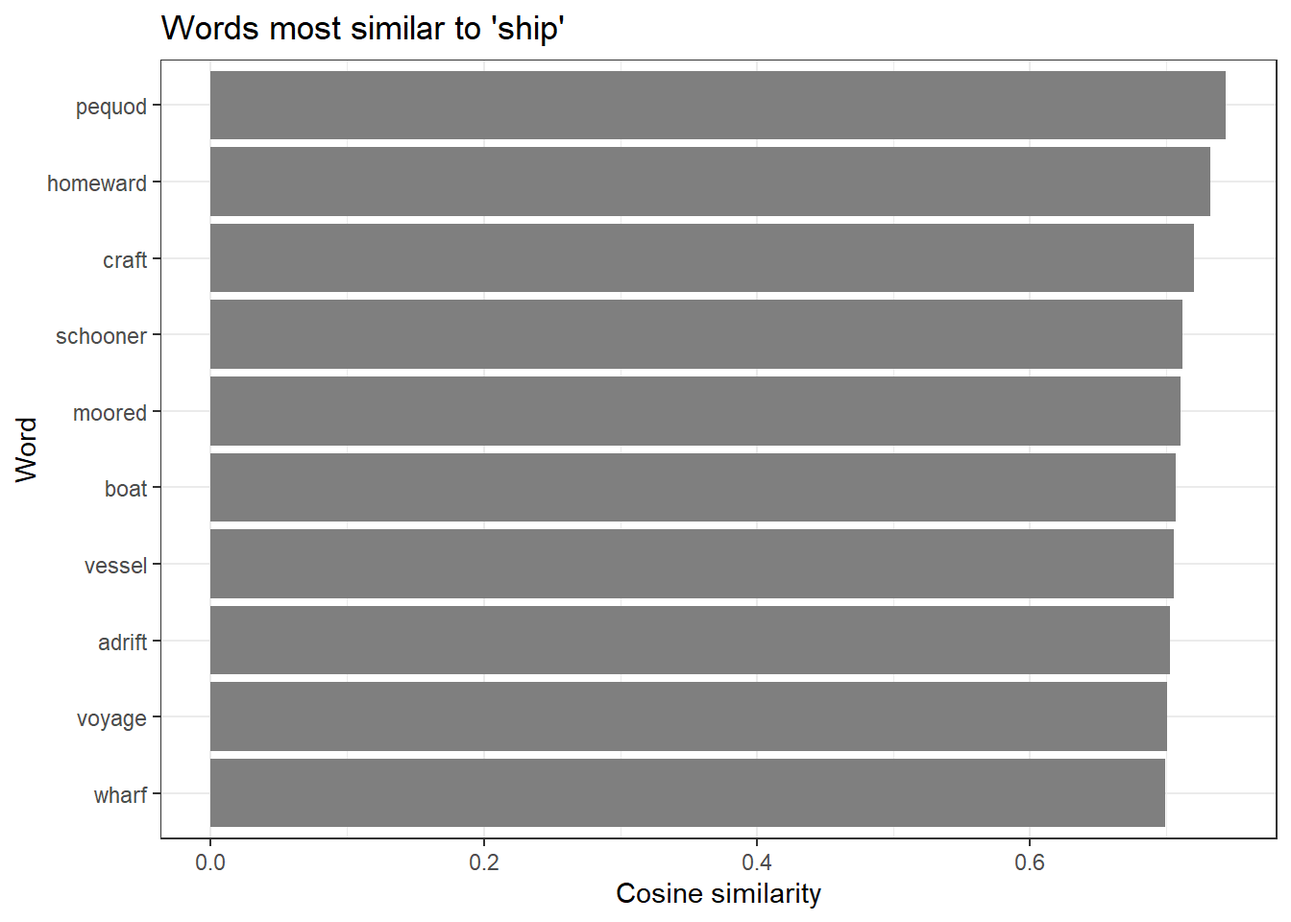
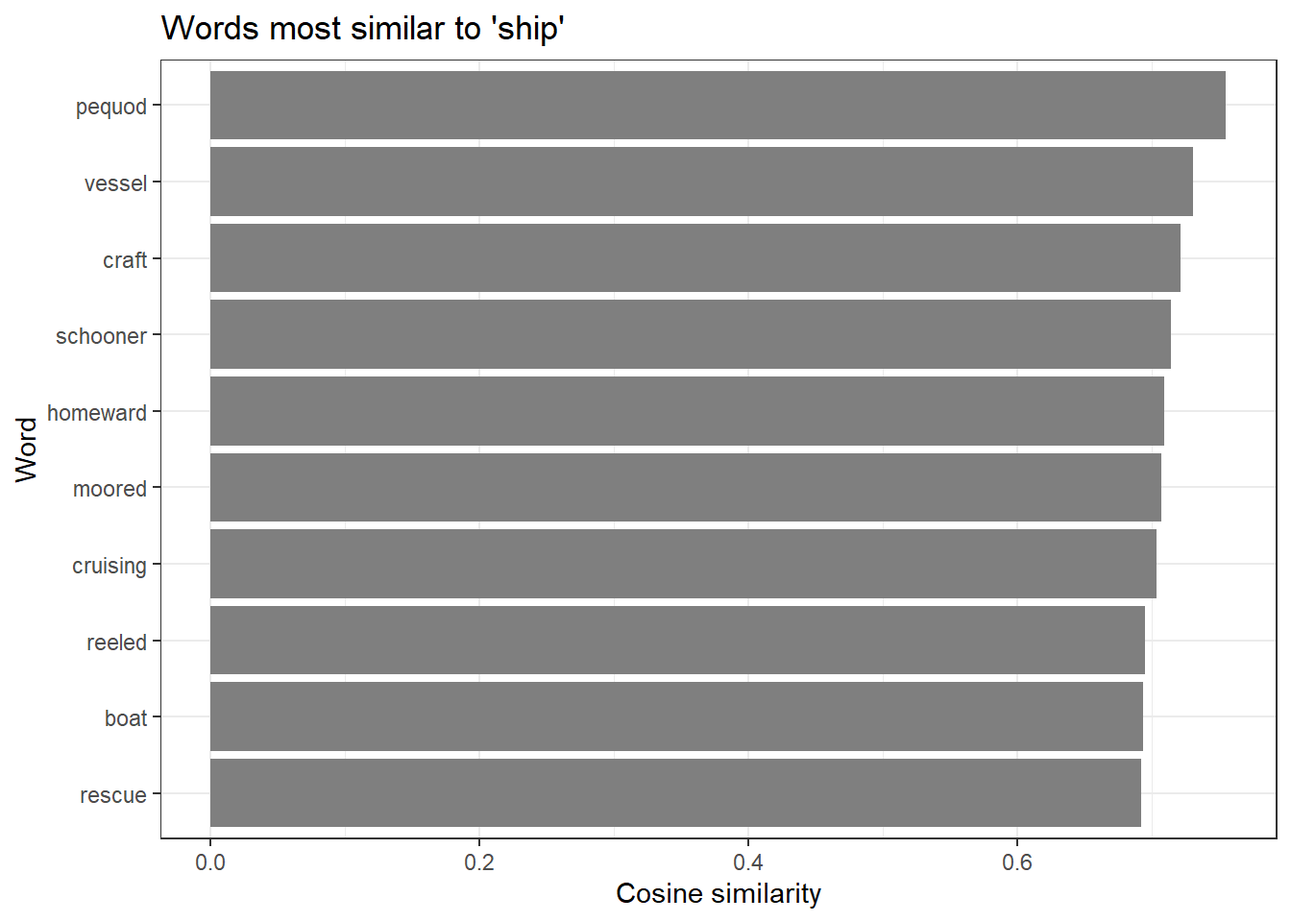
update embeddings

diff --git a/docs/tutorials/embeddings/embeddings.html b/docs/tutorials/embeddings/embeddings.html
@@ -344,17 +344,6 @@ window.Quarto = {
 
 <link rel="stylesheet" href="../../css/styles.css">
 <link rel="canonical" href="https://ladal.edu.au/tutorials/embeddings/embeddings.html">
-  <!-- Google Scholar citation meta tags — injected by inject_scholar_meta.R -->
-  <meta name="citation_title" content="Word Embeddings and Vector Semantics">
-  <meta name="citation_author" content="Schweinberger, Martin">
-  <meta name="citation_publication_date" content="2026">
-  <meta name="citation_online_date" content="2026/04/05">
-  <meta name="citation_language" content="en">
-  <meta name="citation_publisher" content="The Language Technology and Data Analysis Laboratory (LADAL), The University of Queensland, Australia">
-  <meta name="citation_doi" content="10.5281/zenodo.19424864">
-  <meta name="citation_pdf_url" content="https://zenodo.org/records/19424865/files/embeddings.html">
-  <meta name="citation_fulltext_html_url" content="https://ladal.edu.au/tutorials/embeddings/embeddings.html">
-  <!-- end citation meta tags -->
 </head>
 
 <body class="floating nav-fixed">
@@ -728,7 +717,7 @@ Citation
 </div>
 </div>
 <div class="callout-body-container callout-body">
-<p>Martin Schweinberger. 2026. <em>Word Embeddings and Vector Semantics</em>. The Language Technology and Data Analysis Laboratory (LADAL), The University of Queensland, Australia. url: https://ladal.edu.au/tutorials/embeddings/embeddings.html (Version 3.1.1). doi: <a href="https://doi.org/10.5281/zenodo.19332874" target="_blank">10.5281/zenodo.19332874</a>.</p>
+<p>Martin Schweinberger. 2026. <em>Word Embeddings and Vector Semantics</em>. The Language Technology and Data Analysis Laboratory (LADAL), The University of Queensland, Australia. url: https://ladal.edu.au/tutorials/embeddings/embeddings.html (Version 3.1.1). doi: <a href="https://doi.org/10.5281/zenodo.19424864" target="_blank">10.5281/zenodo.19424864</a>.</p>
 </div>
 </div>
 </section>
@@ -1149,7 +1138,7 @@ word2vec requires a vector of sentences, not a single string
 <div class="cell-output cell-output-stdout">
 <pre><code>
 First 10 dimensions of embedding for 'alice':
-0.1074 0.9485 -0.5556 -1.3119 0.8869 -0.3789 -0.3702 1.8697 0.0456 0.2259 ...</code></pre>
+1.4149 0.831 -0.9616 -0.4021 0.1571 -1.2541 -0.0839 0.0012 -0.2048 0.0561 ...</code></pre>
 </div>
 </div>
 <p>Each row of the embedding matrix represents one word as a 100-dimensional vector. The individual dimension values have no direct linguistic interpretation — what matters is the <em>pattern</em> of values across dimensions, and specifically how similar two patterns are to each other.</p>
@@ -1193,7 +1182,7 @@ Section Overview
 <span id="cb21-15"><a href="#cb21-15" aria-hidden="true" tabindex="-1"></a>  <span class="fu">border_outer</span>()</span></code><button title="Copy to Clipboard" class="code-copy-button"><i class="bi"></i></button></pre></div>
 </details>
 <div class="cell-output-display">
-<div class="tabwid"><style>.cl-afd85bca{table-layout:auto;width:60%;}.cl-afcbc5ea{font-family:'Arial';font-size:11pt;font-weight:bold;font-style:normal;text-decoration:none;color:rgba(0, 0, 0, 1.00);background-color:transparent;}.cl-afcbc5fe{font-family:'Arial';font-size:11pt;font-weight:normal;font-style:normal;text-decoration:none;color:rgba(0, 0, 0, 1.00);background-color:transparent;}.cl-afd0f646{margin:0;text-align:left;border-bottom: 0 solid rgba(0, 0, 0, 1.00);border-top: 0 solid rgba(0, 0, 0, 1.00);border-left: 0 solid rgba(0, 0, 0, 1.00);border-right: 0 solid rgba(0, 0, 0, 1.00);padding-bottom:5pt;padding-top:5pt;padding-left:5pt;padding-right:5pt;line-height: 1;background-color:transparent;}.cl-afd0f650{margin:0;text-align:right;border-bottom: 0 solid rgba(0, 0, 0, 1.00);border-top: 0 solid rgba(0, 0, 0, 1.00);border-left: 0 solid rgba(0, 0, 0, 1.00);border-right: 0 solid rgba(0, 0, 0, 1.00);padding-bottom:5pt;padding-top:5pt;padding-left:5pt;padding-right:5pt;line-height: 1;background-color:transparent;}.cl-afd1157c{background-color:rgba(207, 207, 207, 1.00);vertical-align: middle;border-bottom: 1pt solid rgba(102, 102, 102, 1.00);border-top: 1pt solid rgba(102, 102, 102, 1.00);border-left: 1pt solid rgba(102, 102, 102, 1.00);border-right: 0 solid rgba(0, 0, 0, 1.00);margin-bottom:0;margin-top:0;margin-left:0;margin-right:0;}.cl-afd11586{background-color:rgba(207, 207, 207, 1.00);vertical-align: middle;border-bottom: 1pt solid rgba(102, 102, 102, 1.00);border-top: 1pt solid rgba(102, 102, 102, 1.00);border-left: 0 solid rgba(0, 0, 0, 1.00);border-right: 0 solid rgba(0, 0, 0, 1.00);margin-bottom:0;margin-top:0;margin-left:0;margin-right:0;}.cl-afd11590{background-color:rgba(207, 207, 207, 1.00);vertical-align: middle;border-bottom: 1pt solid rgba(102, 102, 102, 1.00);border-top: 1pt solid rgba(102, 102, 102, 1.00);border-left: 0 solid rgba(0, 0, 0, 1.00);border-right: 0 solid rgba(0, 0, 0, 1.00);margin-bottom:0;margin-top:0;margin-left:0;margin-right:0;}.cl-afd11591{background-color:rgba(207, 207, 207, 1.00);vertical-align: middle;border-bottom: 1pt solid rgba(102, 102, 102, 1.00);border-top: 1pt solid rgba(102, 102, 102, 1.00);border-left: 0 solid rgba(0, 0, 0, 1.00);border-right: 1pt solid rgba(102, 102, 102, 1.00);margin-bottom:0;margin-top:0;margin-left:0;margin-right:0;}.cl-afd11592{background-color:rgba(239, 239, 239, 1.00);vertical-align: middle;border-bottom: 0 solid rgba(0, 0, 0, 1.00);border-top: 0 solid rgba(0, 0, 0, 1.00);border-left: 1pt solid rgba(102, 102, 102, 1.00);border-right: 0 solid rgba(0, 0, 0, 1.00);margin-bottom:0;margin-top:0;margin-left:0;margin-right:0;}.cl-afd1159a{background-color:rgba(239, 239, 239, 1.00);vertical-align: middle;border-bottom: 0 solid rgba(0, 0, 0, 1.00);border-top: 0 solid rgba(0, 0, 0, 1.00);border-left: 0 solid rgba(0, 0, 0, 1.00);border-right: 0 solid rgba(0, 0, 0, 1.00);margin-bottom:0;margin-top:0;margin-left:0;margin-right:0;}.cl-afd115a4{background-color:rgba(239, 239, 239, 1.00);vertical-align: middle;border-bottom: 0 solid rgba(0, 0, 0, 1.00);border-top: 0 solid rgba(0, 0, 0, 1.00);border-left: 0 solid rgba(0, 0, 0, 1.00);border-right: 0 solid rgba(0, 0, 0, 1.00);margin-bottom:0;margin-top:0;margin-left:0;margin-right:0;}.cl-afd115a5{background-color:rgba(239, 239, 239, 1.00);vertical-align: middle;border-bottom: 0 solid rgba(0, 0, 0, 1.00);border-top: 0 solid rgba(0, 0, 0, 1.00);border-left: 0 solid rgba(0, 0, 0, 1.00);border-right: 1pt solid rgba(102, 102, 102, 1.00);margin-bottom:0;margin-top:0;margin-left:0;margin-right:0;}.cl-afd115b8{background-color:transparent;vertical-align: middle;border-bottom: 0 solid rgba(0, 0, 0, 1.00);border-top: 0 solid rgba(0, 0, 0, 1.00);border-left: 1pt solid rgba(102, 102, 102, 1.00);border-right: 0 solid rgba(0, 0, 0, 1.00);margin-bottom:0;margin-top:0;margin-left:0;margin-right:0;}.cl-afd115b9{background-color:transparent;vertical-align: middle;border-bottom: 0 solid rgba(0, 0, 0, 1.00);border-top: 0 solid rgba(0, 0, 0, 1.00);border-left: 0 solid rgba(0, 0, 0, 1.00);border-right: 0 solid rgba(0, 0, 0, 1.00);margin-bottom:0;margin-top:0;margin-left:0;margin-right:0;}.cl-afd115c2{background-color:transparent;vertical-align: middle;border-bottom: 0 solid rgba(0, 0, 0, 1.00);border-top: 0 solid rgba(0, 0, 0, 1.00);border-left: 0 solid rgba(0, 0, 0, 1.00);border-right: 0 solid rgba(0, 0, 0, 1.00);margin-bottom:0;margin-top:0;margin-left:0;margin-right:0;}.cl-afd115cc{background-color:transparent;vertical-align: middle;border-bottom: 0 solid rgba(0, 0, 0, 1.00);border-top: 0 solid rgba(0, 0, 0, 1.00);border-left: 0 solid rgba(0, 0, 0, 1.00);border-right: 1pt solid rgba(102, 102, 102, 1.00);margin-bottom:0;margin-top:0;margin-left:0;margin-right:0;}.cl-afd115cd{background-color:transparent;vertical-align: middle;border-bottom: 1pt solid rgba(102, 102, 102, 1.00);border-top: 0 solid rgba(0, 0, 0, 1.00);border-left: 1pt solid rgba(102, 102, 102, 1.00);border-right: 0 solid rgba(0, 0, 0, 1.00);margin-bottom:0;margin-top:0;margin-left:0;margin-right:0;}.cl-afd115ce{background-color:transparent;vertical-align: middle;border-bottom: 1pt solid rgba(102, 102, 102, 1.00);border-top: 0 solid rgba(0, 0, 0, 1.00);border-left: 0 solid rgba(0, 0, 0, 1.00);border-right: 0 solid rgba(0, 0, 0, 1.00);margin-bottom:0;margin-top:0;margin-left:0;margin-right:0;}.cl-afd115d6{background-color:transparent;vertical-align: middle;border-bottom: 1pt solid rgba(102, 102, 102, 1.00);border-top: 0 solid rgba(0, 0, 0, 1.00);border-left: 0 solid rgba(0, 0, 0, 1.00);border-right: 0 solid rgba(0, 0, 0, 1.00);margin-bottom:0;margin-top:0;margin-left:0;margin-right:0;}.cl-afd115e0{background-color:transparent;vertical-align: middle;border-bottom: 1pt solid rgba(102, 102, 102, 1.00);border-top: 0 solid rgba(0, 0, 0, 1.00);border-left: 0 solid rgba(0, 0, 0, 1.00);border-right: 1pt solid rgba(102, 102, 102, 1.00);margin-bottom:0;margin-top:0;margin-left:0;margin-right:0;}</style><table data-quarto-disable-processing="true" class="cl-afd85bca"><thead><tr style="overflow-wrap:break-word;"><th class="cl-afd1157c"><p class="cl-afd0f646"><span class="cl-afcbc5ea">queen.term1</span></p></th><th class="cl-afd11586"><p class="cl-afd0f646"><span class="cl-afcbc5ea">queen.term2</span></p></th><th class="cl-afd11590"><p class="cl-afd0f650"><span class="cl-afcbc5ea">queen.similarity</span></p></th><th class="cl-afd11591"><p class="cl-afd0f650"><span class="cl-afcbc5ea">queen.rank</span></p></th></tr></thead><tbody><tr style="overflow-wrap:break-word;"><td class="cl-afd11592"><p class="cl-afd0f646"><span class="cl-afcbc5fe">queen</span></p></td><td class="cl-afd1159a"><p class="cl-afd0f646"><span class="cl-afcbc5fe">king</span></p></td><td class="cl-afd115a4"><p class="cl-afd0f650"><span class="cl-afcbc5fe">0.7985939</span></p></td><td class="cl-afd115a5"><p class="cl-afd0f650"><span class="cl-afcbc5fe">1</span></p></td></tr><tr style="overflow-wrap:break-word;"><td class="cl-afd115b8"><p class="cl-afd0f646"><span class="cl-afcbc5fe">queen</span></p></td><td class="cl-afd115b9"><p class="cl-afd0f646"><span class="cl-afcbc5fe">executioner</span></p></td><td class="cl-afd115c2"><p class="cl-afd0f650"><span class="cl-afcbc5fe">0.7385558</span></p></td><td class="cl-afd115cc"><p class="cl-afd0f650"><span class="cl-afcbc5fe">2</span></p></td></tr><tr style="overflow-wrap:break-word;"><td class="cl-afd11592"><p class="cl-afd0f646"><span class="cl-afcbc5fe">queen</span></p></td><td class="cl-afd1159a"><p class="cl-afd0f646"><span class="cl-afcbc5fe">hurriedly</span></p></td><td class="cl-afd115a4"><p class="cl-afd0f650"><span class="cl-afcbc5fe">0.7372494</span></p></td><td class="cl-afd115a5"><p class="cl-afd0f650"><span class="cl-afcbc5fe">3</span></p></td></tr><tr style="overflow-wrap:break-word;"><td class="cl-afd115b8"><p class="cl-afd0f646"><span class="cl-afcbc5fe">queen</span></p></td><td class="cl-afd115b9"><p class="cl-afd0f646"><span class="cl-afcbc5fe">knave</span></p></td><td class="cl-afd115c2"><p class="cl-afd0f650"><span class="cl-afcbc5fe">0.7223672</span></p></td><td class="cl-afd115cc"><p class="cl-afd0f650"><span class="cl-afcbc5fe">4</span></p></td></tr><tr style="overflow-wrap:break-word;"><td class="cl-afd11592"><p class="cl-afd0f646"><span class="cl-afcbc5fe">queen</span></p></td><td class="cl-afd1159a"><p class="cl-afd0f646"><span class="cl-afcbc5fe">“here</span></p></td><td class="cl-afd115a4"><p class="cl-afd0f650"><span class="cl-afcbc5fe">0.7145847</span></p></td><td class="cl-afd115a5"><p class="cl-afd0f650"><span class="cl-afcbc5fe">5</span></p></td></tr><tr style="overflow-wrap:break-word;"><td class="cl-afd115b8"><p class="cl-afd0f646"><span class="cl-afcbc5fe">queen</span></p></td><td class="cl-afd115b9"><p class="cl-afd0f646"><span class="cl-afcbc5fe">shrill</span></p></td><td class="cl-afd115c2"><p class="cl-afd0f650"><span class="cl-afcbc5fe">0.7002829</span></p></td><td class="cl-afd115cc"><p class="cl-afd0f650"><span class="cl-afcbc5fe">6</span></p></td></tr><tr style="overflow-wrap:break-word;"><td class="cl-afd11592"><p class="cl-afd0f646"><span class="cl-afcbc5fe">queen</span></p></td><td class="cl-afd1159a"><p class="cl-afd0f646"><span class="cl-afcbc5fe">croquet</span></p></td><td class="cl-afd115a4"><p class="cl-afd0f650"><span class="cl-afcbc5fe">0.6988776</span></p></td><td class="cl-afd115a5"><p class="cl-afd0f650"><span class="cl-afcbc5fe">7</span></p></td></tr><tr style="overflow-wrap:break-word;"><td class="cl-afd115b8"><p class="cl-afd0f646"><span class="cl-afcbc5fe">queen</span></p></td><td class="cl-afd115b9"><p class="cl-afd0f646"><span class="cl-afcbc5fe">screamed</span></p></td><td class="cl-afd115c2"><p class="cl-afd0f650"><span class="cl-afcbc5fe">0.6988437</span></p></td><td class="cl-afd115cc"><p class="cl-afd0f650"><span class="cl-afcbc5fe">8</span></p></td></tr><tr style="overflow-wrap:break-word;"><td class="cl-afd11592"><p class="cl-afd0f646"><span class="cl-afcbc5fe">queen</span></p></td><td class="cl-afd1159a"><p class="cl-afd0f646"><span class="cl-afcbc5fe">duchess</span></p></td><td class="cl-afd115a4"><p class="cl-afd0f650"><span class="cl-afcbc5fe">0.6982710</span></p></td><td class="cl-afd115a5"><p class="cl-afd0f650"><span class="cl-afcbc5fe">9</span></p></td></tr><tr style="overflow-wrap:break-word;"><td class="cl-afd115cd"><p class="cl-afd0f646"><span class="cl-afcbc5fe">queen</span></p></td><td class="cl-afd115ce"><p class="cl-afd0f646"><span class="cl-afcbc5fe">hatter</span></p></td><td class="cl-afd115d6"><p class="cl-afd0f650"><span class="cl-afcbc5fe">0.6927382</span></p></td><td class="cl-afd115e0"><p class="cl-afd0f650"><span class="cl-afcbc5fe">10</span></p></td></tr></tbody></table></div>
+<div class="tabwid"><style>.cl-2fe8f046{table-layout:auto;width:60%;}.cl-2fdf6dd2{font-family:'Arial';font-size:11pt;font-weight:bold;font-style:normal;text-decoration:none;color:rgba(0, 0, 0, 1.00);background-color:transparent;}.cl-2fdf6df0{font-family:'Arial';font-size:11pt;font-weight:normal;font-style:normal;text-decoration:none;color:rgba(0, 0, 0, 1.00);background-color:transparent;}.cl-2fe3035c{margin:0;text-align:left;border-bottom: 0 solid rgba(0, 0, 0, 1.00);border-top: 0 solid rgba(0, 0, 0, 1.00);border-left: 0 solid rgba(0, 0, 0, 1.00);border-right: 0 solid rgba(0, 0, 0, 1.00);padding-bottom:5pt;padding-top:5pt;padding-left:5pt;padding-right:5pt;line-height: 1;background-color:transparent;}.cl-2fe3037a{margin:0;text-align:right;border-bottom: 0 solid rgba(0, 0, 0, 1.00);border-top: 0 solid rgba(0, 0, 0, 1.00);border-left: 0 solid rgba(0, 0, 0, 1.00);border-right: 0 solid rgba(0, 0, 0, 1.00);padding-bottom:5pt;padding-top:5pt;padding-left:5pt;padding-right:5pt;line-height: 1;background-color:transparent;}.cl-2fe33e08{background-color:rgba(207, 207, 207, 1.00);vertical-align: middle;border-bottom: 1pt solid rgba(102, 102, 102, 1.00);border-top: 1pt solid rgba(102, 102, 102, 1.00);border-left: 1pt solid rgba(102, 102, 102, 1.00);border-right: 0 solid rgba(0, 0, 0, 1.00);margin-bottom:0;margin-top:0;margin-left:0;margin-right:0;}.cl-2fe33e12{background-color:rgba(207, 207, 207, 1.00);vertical-align: middle;border-bottom: 1pt solid rgba(102, 102, 102, 1.00);border-top: 1pt solid rgba(102, 102, 102, 1.00);border-left: 0 solid rgba(0, 0, 0, 1.00);border-right: 0 solid rgba(0, 0, 0, 1.00);margin-bottom:0;margin-top:0;margin-left:0;margin-right:0;}.cl-2fe33e13{background-color:rgba(207, 207, 207, 1.00);vertical-align: middle;border-bottom: 1pt solid rgba(102, 102, 102, 1.00);border-top: 1pt solid rgba(102, 102, 102, 1.00);border-left: 0 solid rgba(0, 0, 0, 1.00);border-right: 0 solid rgba(0, 0, 0, 1.00);margin-bottom:0;margin-top:0;margin-left:0;margin-right:0;}.cl-2fe33e14{background-color:rgba(207, 207, 207, 1.00);vertical-align: middle;border-bottom: 1pt solid rgba(102, 102, 102, 1.00);border-top: 1pt solid rgba(102, 102, 102, 1.00);border-left: 0 solid rgba(0, 0, 0, 1.00);border-right: 1pt solid rgba(102, 102, 102, 1.00);margin-bottom:0;margin-top:0;margin-left:0;margin-right:0;}.cl-2fe33e1c{background-color:rgba(239, 239, 239, 1.00);vertical-align: middle;border-bottom: 0 solid rgba(0, 0, 0, 1.00);border-top: 0 solid rgba(0, 0, 0, 1.00);border-left: 1pt solid rgba(102, 102, 102, 1.00);border-right: 0 solid rgba(0, 0, 0, 1.00);margin-bottom:0;margin-top:0;margin-left:0;margin-right:0;}.cl-2fe33e1d{background-color:rgba(239, 239, 239, 1.00);vertical-align: middle;border-bottom: 0 solid rgba(0, 0, 0, 1.00);border-top: 0 solid rgba(0, 0, 0, 1.00);border-left: 0 solid rgba(0, 0, 0, 1.00);border-right: 0 solid rgba(0, 0, 0, 1.00);margin-bottom:0;margin-top:0;margin-left:0;margin-right:0;}.cl-2fe33e26{background-color:rgba(239, 239, 239, 1.00);vertical-align: middle;border-bottom: 0 solid rgba(0, 0, 0, 1.00);border-top: 0 solid rgba(0, 0, 0, 1.00);border-left: 0 solid rgba(0, 0, 0, 1.00);border-right: 0 solid rgba(0, 0, 0, 1.00);margin-bottom:0;margin-top:0;margin-left:0;margin-right:0;}.cl-2fe33e27{background-color:rgba(239, 239, 239, 1.00);vertical-align: middle;border-bottom: 0 solid rgba(0, 0, 0, 1.00);border-top: 0 solid rgba(0, 0, 0, 1.00);border-left: 0 solid rgba(0, 0, 0, 1.00);border-right: 1pt solid rgba(102, 102, 102, 1.00);margin-bottom:0;margin-top:0;margin-left:0;margin-right:0;}.cl-2fe33e28{background-color:transparent;vertical-align: middle;border-bottom: 0 solid rgba(0, 0, 0, 1.00);border-top: 0 solid rgba(0, 0, 0, 1.00);border-left: 1pt solid rgba(102, 102, 102, 1.00);border-right: 0 solid rgba(0, 0, 0, 1.00);margin-bottom:0;margin-top:0;margin-left:0;margin-right:0;}.cl-2fe33e30{background-color:transparent;vertical-align: middle;border-bottom: 0 solid rgba(0, 0, 0, 1.00);border-top: 0 solid rgba(0, 0, 0, 1.00);border-left: 0 solid rgba(0, 0, 0, 1.00);border-right: 0 solid rgba(0, 0, 0, 1.00);margin-bottom:0;margin-top:0;margin-left:0;margin-right:0;}.cl-2fe33e31{background-color:transparent;vertical-align: middle;border-bottom: 0 solid rgba(0, 0, 0, 1.00);border-top: 0 solid rgba(0, 0, 0, 1.00);border-left: 0 solid rgba(0, 0, 0, 1.00);border-right: 0 solid rgba(0, 0, 0, 1.00);margin-bottom:0;margin-top:0;margin-left:0;margin-right:0;}.cl-2fe33e32{background-color:transparent;vertical-align: middle;border-bottom: 0 solid rgba(0, 0, 0, 1.00);border-top: 0 solid rgba(0, 0, 0, 1.00);border-left: 0 solid rgba(0, 0, 0, 1.00);border-right: 1pt solid rgba(102, 102, 102, 1.00);margin-bottom:0;margin-top:0;margin-left:0;margin-right:0;}.cl-2fe33e3a{background-color:transparent;vertical-align: middle;border-bottom: 1pt solid rgba(102, 102, 102, 1.00);border-top: 0 solid rgba(0, 0, 0, 1.00);border-left: 1pt solid rgba(102, 102, 102, 1.00);border-right: 0 solid rgba(0, 0, 0, 1.00);margin-bottom:0;margin-top:0;margin-left:0;margin-right:0;}.cl-2fe33e3b{background-color:transparent;vertical-align: middle;border-bottom: 1pt solid rgba(102, 102, 102, 1.00);border-top: 0 solid rgba(0, 0, 0, 1.00);border-left: 0 solid rgba(0, 0, 0, 1.00);border-right: 0 solid rgba(0, 0, 0, 1.00);margin-bottom:0;margin-top:0;margin-left:0;margin-right:0;}.cl-2fe33e3c{background-color:transparent;vertical-align: middle;border-bottom: 1pt solid rgba(102, 102, 102, 1.00);border-top: 0 solid rgba(0, 0, 0, 1.00);border-left: 0 solid rgba(0, 0, 0, 1.00);border-right: 0 solid rgba(0, 0, 0, 1.00);margin-bottom:0;margin-top:0;margin-left:0;margin-right:0;}.cl-2fe33e44{background-color:transparent;vertical-align: middle;border-bottom: 1pt solid rgba(102, 102, 102, 1.00);border-top: 0 solid rgba(0, 0, 0, 1.00);border-left: 0 solid rgba(0, 0, 0, 1.00);border-right: 1pt solid rgba(102, 102, 102, 1.00);margin-bottom:0;margin-top:0;margin-left:0;margin-right:0;}</style><table data-quarto-disable-processing="true" class="cl-2fe8f046"><thead><tr style="overflow-wrap:break-word;"><th class="cl-2fe33e08"><p class="cl-2fe3035c"><span class="cl-2fdf6dd2">queen.term1</span></p></th><th class="cl-2fe33e12"><p class="cl-2fe3035c"><span class="cl-2fdf6dd2">queen.term2</span></p></th><th class="cl-2fe33e13"><p class="cl-2fe3037a"><span class="cl-2fdf6dd2">queen.similarity</span></p></th><th class="cl-2fe33e14"><p class="cl-2fe3037a"><span class="cl-2fdf6dd2">queen.rank</span></p></th></tr></thead><tbody><tr style="overflow-wrap:break-word;"><td class="cl-2fe33e1c"><p class="cl-2fe3035c"><span class="cl-2fdf6df0">queen</span></p></td><td class="cl-2fe33e1d"><p class="cl-2fe3035c"><span class="cl-2fdf6df0">king</span></p></td><td class="cl-2fe33e26"><p class="cl-2fe3037a"><span class="cl-2fdf6df0">0.7452760</span></p></td><td class="cl-2fe33e27"><p class="cl-2fe3037a"><span class="cl-2fdf6df0">1</span></p></td></tr><tr style="overflow-wrap:break-word;"><td class="cl-2fe33e28"><p class="cl-2fe3035c"><span class="cl-2fdf6df0">queen</span></p></td><td class="cl-2fe33e30"><p class="cl-2fe3035c"><span class="cl-2fdf6df0">hatter</span></p></td><td class="cl-2fe33e31"><p class="cl-2fe3037a"><span class="cl-2fdf6df0">0.7268566</span></p></td><td class="cl-2fe33e32"><p class="cl-2fe3037a"><span class="cl-2fdf6df0">2</span></p></td></tr><tr style="overflow-wrap:break-word;"><td class="cl-2fe33e1c"><p class="cl-2fe3035c"><span class="cl-2fdf6df0">queen</span></p></td><td class="cl-2fe33e1d"><p class="cl-2fe3035c"><span class="cl-2fdf6df0">um</span></p></td><td class="cl-2fe33e26"><p class="cl-2fe3037a"><span class="cl-2fdf6df0">0.7258774</span></p></td><td class="cl-2fe33e27"><p class="cl-2fe3037a"><span class="cl-2fdf6df0">3</span></p></td></tr><tr style="overflow-wrap:break-word;"><td class="cl-2fe33e28"><p class="cl-2fe3035c"><span class="cl-2fdf6df0">queen</span></p></td><td class="cl-2fe33e30"><p class="cl-2fe3035c"><span class="cl-2fdf6df0">hurriedly</span></p></td><td class="cl-2fe33e31"><p class="cl-2fe3037a"><span class="cl-2fdf6df0">0.7154660</span></p></td><td class="cl-2fe33e32"><p class="cl-2fe3037a"><span class="cl-2fdf6df0">4</span></p></td></tr><tr style="overflow-wrap:break-word;"><td class="cl-2fe33e1c"><p class="cl-2fe3035c"><span class="cl-2fdf6df0">queen</span></p></td><td class="cl-2fe33e1d"><p class="cl-2fe3035c"><span class="cl-2fdf6df0">“then</span></p></td><td class="cl-2fe33e26"><p class="cl-2fe3037a"><span class="cl-2fdf6df0">0.7152364</span></p></td><td class="cl-2fe33e27"><p class="cl-2fe3037a"><span class="cl-2fdf6df0">5</span></p></td></tr><tr style="overflow-wrap:break-word;"><td class="cl-2fe33e28"><p class="cl-2fe3035c"><span class="cl-2fdf6df0">queen</span></p></td><td class="cl-2fe33e30"><p class="cl-2fe3035c"><span class="cl-2fdf6df0">knave</span></p></td><td class="cl-2fe33e31"><p class="cl-2fe3037a"><span class="cl-2fdf6df0">0.7139072</span></p></td><td class="cl-2fe33e32"><p class="cl-2fe3037a"><span class="cl-2fdf6df0">6</span></p></td></tr><tr style="overflow-wrap:break-word;"><td class="cl-2fe33e1c"><p class="cl-2fe3035c"><span class="cl-2fdf6df0">queen</span></p></td><td class="cl-2fe33e1d"><p class="cl-2fe3035c"><span class="cl-2fdf6df0">“mrs</span></p></td><td class="cl-2fe33e26"><p class="cl-2fe3037a"><span class="cl-2fdf6df0">0.7123655</span></p></td><td class="cl-2fe33e27"><p class="cl-2fe3037a"><span class="cl-2fdf6df0">7</span></p></td></tr><tr style="overflow-wrap:break-word;"><td class="cl-2fe33e28"><p class="cl-2fe3035c"><span class="cl-2fdf6df0">queen</span></p></td><td class="cl-2fe33e30"><p class="cl-2fe3035c"><span class="cl-2fdf6df0">“here</span></p></td><td class="cl-2fe33e31"><p class="cl-2fe3037a"><span class="cl-2fdf6df0">0.7064149</span></p></td><td class="cl-2fe33e32"><p class="cl-2fe3037a"><span class="cl-2fdf6df0">8</span></p></td></tr><tr style="overflow-wrap:break-word;"><td class="cl-2fe33e1c"><p class="cl-2fe3035c"><span class="cl-2fdf6df0">queen</span></p></td><td class="cl-2fe33e1d"><p class="cl-2fe3035c"><span class="cl-2fdf6df0">counting</span></p></td><td class="cl-2fe33e26"><p class="cl-2fe3037a"><span class="cl-2fdf6df0">0.7049160</span></p></td><td class="cl-2fe33e27"><p class="cl-2fe3037a"><span class="cl-2fdf6df0">9</span></p></td></tr><tr style="overflow-wrap:break-word;"><td class="cl-2fe33e3a"><p class="cl-2fe3035c"><span class="cl-2fdf6df0">queen</span></p></td><td class="cl-2fe33e3b"><p class="cl-2fe3035c"><span class="cl-2fdf6df0">duchess</span></p></td><td class="cl-2fe33e3c"><p class="cl-2fe3037a"><span class="cl-2fdf6df0">0.6986807</span></p></td><td class="cl-2fe33e44"><p class="cl-2fe3037a"><span class="cl-2fdf6df0">10</span></p></td></tr></tbody></table></div>
 </div>
 </div>
 </section>
@@ -1244,16 +1233,16 @@ Section Overview
 <div class="cell-output cell-output-stdout">
 <pre><code>
 Most similar to 'love':
-[1] "entertain"  "colonel"    "preserve"   "jealousy"   "bitterness"
+[1] "chooses" "girl"    "greater" "can’st"  "think"  
 
 Most similar to 'king':
-[1] "queen"       "“because"    "executioner" "knave"       "decidedly"  
+[1] "executioner" "queen"       "post"        "majesty"     "angrily"    
 
 Most similar to 'ocean':
-[1] "sunset"  "polar"   "snuffed" "icy"     "tablets"
+[1] "oftentimes" "waters"     "atlantic"   "blending"   "dried"     
 
 Most similar to 'thought':
-[1] "knew"     "confused" "grieved"  "glanced"  "“though" </code></pre>
+[1] "guessed"   "trusted"   "felt"      "meant"     "persuaded"</code></pre>
 </div>
 </div>
 <div class="callout callout-style-default callout-note callout-titled">
@@ -1393,7 +1382,7 @@ Section Overview
 <span id="cb26-9"><a href="#cb26-9" aria-hidden="true" tabindex="-1"></a>  <span class="fu">border_outer</span>()</span></code><button title="Copy to Clipboard" class="code-copy-button"><i class="bi"></i></button></pre></div>
 </details>
 <div class="cell-output-display">
-<div class="tabwid"><style>.cl-b0abd130{table-layout:auto;width:50%;}.cl-b0a1f372{font-family:'Arial';font-size:11pt;font-weight:bold;font-style:normal;text-decoration:none;color:rgba(0, 0, 0, 1.00);background-color:transparent;}.cl-b0a1f386{font-family:'Arial';font-size:11pt;font-weight:normal;font-style:normal;text-decoration:none;color:rgba(0, 0, 0, 1.00);background-color:transparent;}.cl-b0a5e266{margin:0;text-align:left;border-bottom: 0 solid rgba(0, 0, 0, 1.00);border-top: 0 solid rgba(0, 0, 0, 1.00);border-left: 0 solid rgba(0, 0, 0, 1.00);border-right: 0 solid rgba(0, 0, 0, 1.00);padding-bottom:5pt;padding-top:5pt;padding-left:5pt;padding-right:5pt;line-height: 1;background-color:transparent;}.cl-b0a5e27a{margin:0;text-align:right;border-bottom: 0 solid rgba(0, 0, 0, 1.00);border-top: 0 solid rgba(0, 0, 0, 1.00);border-left: 0 solid rgba(0, 0, 0, 1.00);border-right: 0 solid rgba(0, 0, 0, 1.00);padding-bottom:5pt;padding-top:5pt;padding-left:5pt;padding-right:5pt;line-height: 1;background-color:transparent;}.cl-b0a62262{background-color:rgba(207, 207, 207, 1.00);vertical-align: middle;border-bottom: 1pt solid rgba(102, 102, 102, 1.00);border-top: 1pt solid rgba(102, 102, 102, 1.00);border-left: 1pt solid rgba(102, 102, 102, 1.00);border-right: 0 solid rgba(0, 0, 0, 1.00);margin-bottom:0;margin-top:0;margin-left:0;margin-right:0;}.cl-b0a6226c{background-color:rgba(207, 207, 207, 1.00);vertical-align: middle;border-bottom: 1pt solid rgba(102, 102, 102, 1.00);border-top: 1pt solid rgba(102, 102, 102, 1.00);border-left: 0 solid rgba(0, 0, 0, 1.00);border-right: 1pt solid rgba(102, 102, 102, 1.00);margin-bottom:0;margin-top:0;margin-left:0;margin-right:0;}.cl-b0a62276{background-color:rgba(239, 239, 239, 1.00);vertical-align: middle;border-bottom: 0 solid rgba(0, 0, 0, 1.00);border-top: 0 solid rgba(0, 0, 0, 1.00);border-left: 1pt solid rgba(102, 102, 102, 1.00);border-right: 0 solid rgba(0, 0, 0, 1.00);margin-bottom:0;margin-top:0;margin-left:0;margin-right:0;}.cl-b0a62280{background-color:rgba(239, 239, 239, 1.00);vertical-align: middle;border-bottom: 0 solid rgba(0, 0, 0, 1.00);border-top: 0 solid rgba(0, 0, 0, 1.00);border-left: 0 solid rgba(0, 0, 0, 1.00);border-right: 1pt solid rgba(102, 102, 102, 1.00);margin-bottom:0;margin-top:0;margin-left:0;margin-right:0;}.cl-b0a62281{background-color:transparent;vertical-align: middle;border-bottom: 0 solid rgba(0, 0, 0, 1.00);border-top: 0 solid rgba(0, 0, 0, 1.00);border-left: 1pt solid rgba(102, 102, 102, 1.00);border-right: 0 solid rgba(0, 0, 0, 1.00);margin-bottom:0;margin-top:0;margin-left:0;margin-right:0;}.cl-b0a6228a{background-color:transparent;vertical-align: middle;border-bottom: 0 solid rgba(0, 0, 0, 1.00);border-top: 0 solid rgba(0, 0, 0, 1.00);border-left: 0 solid rgba(0, 0, 0, 1.00);border-right: 1pt solid rgba(102, 102, 102, 1.00);margin-bottom:0;margin-top:0;margin-left:0;margin-right:0;}.cl-b0a6228b{background-color:rgba(239, 239, 239, 1.00);vertical-align: middle;border-bottom: 1pt solid rgba(102, 102, 102, 1.00);border-top: 0 solid rgba(0, 0, 0, 1.00);border-left: 1pt solid rgba(102, 102, 102, 1.00);border-right: 0 solid rgba(0, 0, 0, 1.00);margin-bottom:0;margin-top:0;margin-left:0;margin-right:0;}.cl-b0a62294{background-color:rgba(239, 239, 239, 1.00);vertical-align: middle;border-bottom: 1pt solid rgba(102, 102, 102, 1.00);border-top: 0 solid rgba(0, 0, 0, 1.00);border-left: 0 solid rgba(0, 0, 0, 1.00);border-right: 1pt solid rgba(102, 102, 102, 1.00);margin-bottom:0;margin-top:0;margin-left:0;margin-right:0;}</style><table data-quarto-disable-processing="true" class="cl-b0abd130"><thead><tr style="overflow-wrap:break-word;"><th class="cl-b0a62262"><p class="cl-b0a5e266"><span class="cl-b0a1f372">word</span></p></th><th class="cl-b0a6226c"><p class="cl-b0a5e27a"><span class="cl-b0a1f372">similarity</span></p></th></tr></thead><tbody><tr style="overflow-wrap:break-word;"><td class="cl-b0a62276"><p class="cl-b0a5e266"><span class="cl-b0a1f386">queen</span></p></td><td class="cl-b0a62280"><p class="cl-b0a5e27a"><span class="cl-b0a1f386">0.5263572</span></p></td></tr><tr style="overflow-wrap:break-word;"><td class="cl-b0a62281"><p class="cl-b0a5e266"><span class="cl-b0a1f386">“because</span></p></td><td class="cl-b0a6228a"><p class="cl-b0a5e27a"><span class="cl-b0a1f386">0.4566628</span></p></td></tr><tr style="overflow-wrap:break-word;"><td class="cl-b0a62276"><p class="cl-b0a5e266"><span class="cl-b0a1f386">complacency</span></p></td><td class="cl-b0a62280"><p class="cl-b0a5e27a"><span class="cl-b0a1f386">0.4542734</span></p></td></tr><tr style="overflow-wrap:break-word;"><td class="cl-b0a62281"><p class="cl-b0a5e266"><span class="cl-b0a1f386">james’s</span></p></td><td class="cl-b0a6228a"><p class="cl-b0a5e27a"><span class="cl-b0a1f386">0.4449450</span></p></td></tr><tr style="overflow-wrap:break-word;"><td class="cl-b0a6228b"><p class="cl-b0a5e266"><span class="cl-b0a1f386">counting</span></p></td><td class="cl-b0a62294"><p class="cl-b0a5e27a"><span class="cl-b0a1f386">0.4356137</span></p></td></tr></tbody></table></div>
+<div class="tabwid"><style>.cl-307fe190{table-layout:auto;width:50%;}.cl-3076cb82{font-family:'Arial';font-size:11pt;font-weight:bold;font-style:normal;text-decoration:none;color:rgba(0, 0, 0, 1.00);background-color:transparent;}.cl-3076cb8c{font-family:'Arial';font-size:11pt;font-weight:normal;font-style:normal;text-decoration:none;color:rgba(0, 0, 0, 1.00);background-color:transparent;}.cl-307ac624{margin:0;text-align:left;border-bottom: 0 solid rgba(0, 0, 0, 1.00);border-top: 0 solid rgba(0, 0, 0, 1.00);border-left: 0 solid rgba(0, 0, 0, 1.00);border-right: 0 solid rgba(0, 0, 0, 1.00);padding-bottom:5pt;padding-top:5pt;padding-left:5pt;padding-right:5pt;line-height: 1;background-color:transparent;}.cl-307ac638{margin:0;text-align:right;border-bottom: 0 solid rgba(0, 0, 0, 1.00);border-top: 0 solid rgba(0, 0, 0, 1.00);border-left: 0 solid rgba(0, 0, 0, 1.00);border-right: 0 solid rgba(0, 0, 0, 1.00);padding-bottom:5pt;padding-top:5pt;padding-left:5pt;padding-right:5pt;line-height: 1;background-color:transparent;}.cl-307ae960{background-color:rgba(207, 207, 207, 1.00);vertical-align: middle;border-bottom: 1pt solid rgba(102, 102, 102, 1.00);border-top: 1pt solid rgba(102, 102, 102, 1.00);border-left: 1pt solid rgba(102, 102, 102, 1.00);border-right: 0 solid rgba(0, 0, 0, 1.00);margin-bottom:0;margin-top:0;margin-left:0;margin-right:0;}.cl-307ae96a{background-color:rgba(207, 207, 207, 1.00);vertical-align: middle;border-bottom: 1pt solid rgba(102, 102, 102, 1.00);border-top: 1pt solid rgba(102, 102, 102, 1.00);border-left: 0 solid rgba(0, 0, 0, 1.00);border-right: 1pt solid rgba(102, 102, 102, 1.00);margin-bottom:0;margin-top:0;margin-left:0;margin-right:0;}.cl-307ae96b{background-color:rgba(239, 239, 239, 1.00);vertical-align: middle;border-bottom: 0 solid rgba(0, 0, 0, 1.00);border-top: 0 solid rgba(0, 0, 0, 1.00);border-left: 1pt solid rgba(102, 102, 102, 1.00);border-right: 0 solid rgba(0, 0, 0, 1.00);margin-bottom:0;margin-top:0;margin-left:0;margin-right:0;}.cl-307ae974{background-color:rgba(239, 239, 239, 1.00);vertical-align: middle;border-bottom: 0 solid rgba(0, 0, 0, 1.00);border-top: 0 solid rgba(0, 0, 0, 1.00);border-left: 0 solid rgba(0, 0, 0, 1.00);border-right: 1pt solid rgba(102, 102, 102, 1.00);margin-bottom:0;margin-top:0;margin-left:0;margin-right:0;}.cl-307ae975{background-color:transparent;vertical-align: middle;border-bottom: 0 solid rgba(0, 0, 0, 1.00);border-top: 0 solid rgba(0, 0, 0, 1.00);border-left: 1pt solid rgba(102, 102, 102, 1.00);border-right: 0 solid rgba(0, 0, 0, 1.00);margin-bottom:0;margin-top:0;margin-left:0;margin-right:0;}.cl-307ae97e{background-color:transparent;vertical-align: middle;border-bottom: 0 solid rgba(0, 0, 0, 1.00);border-top: 0 solid rgba(0, 0, 0, 1.00);border-left: 0 solid rgba(0, 0, 0, 1.00);border-right: 1pt solid rgba(102, 102, 102, 1.00);margin-bottom:0;margin-top:0;margin-left:0;margin-right:0;}.cl-307ae97f{background-color:rgba(239, 239, 239, 1.00);vertical-align: middle;border-bottom: 1pt solid rgba(102, 102, 102, 1.00);border-top: 0 solid rgba(0, 0, 0, 1.00);border-left: 1pt solid rgba(102, 102, 102, 1.00);border-right: 0 solid rgba(0, 0, 0, 1.00);margin-bottom:0;margin-top:0;margin-left:0;margin-right:0;}.cl-307ae980{background-color:rgba(239, 239, 239, 1.00);vertical-align: middle;border-bottom: 1pt solid rgba(102, 102, 102, 1.00);border-top: 0 solid rgba(0, 0, 0, 1.00);border-left: 0 solid rgba(0, 0, 0, 1.00);border-right: 1pt solid rgba(102, 102, 102, 1.00);margin-bottom:0;margin-top:0;margin-left:0;margin-right:0;}</style><table data-quarto-disable-processing="true" class="cl-307fe190"><thead><tr style="overflow-wrap:break-word;"><th class="cl-307ae960"><p class="cl-307ac624"><span class="cl-3076cb82">word</span></p></th><th class="cl-307ae96a"><p class="cl-307ac638"><span class="cl-3076cb82">similarity</span></p></th></tr></thead><tbody><tr style="overflow-wrap:break-word;"><td class="cl-307ae96b"><p class="cl-307ac624"><span class="cl-3076cb8c">queen</span></p></td><td class="cl-307ae974"><p class="cl-307ac638"><span class="cl-3076cb8c">0.5140416</span></p></td></tr><tr style="overflow-wrap:break-word;"><td class="cl-307ae975"><p class="cl-307ac624"><span class="cl-3076cb8c">darcy</span></p></td><td class="cl-307ae97e"><p class="cl-307ac638"><span class="cl-3076cb8c">0.4463939</span></p></td></tr><tr style="overflow-wrap:break-word;"><td class="cl-307ae96b"><p class="cl-307ac624"><span class="cl-3076cb8c">mary</span></p></td><td class="cl-307ae974"><p class="cl-307ac638"><span class="cl-3076cb8c">0.4392849</span></p></td></tr><tr style="overflow-wrap:break-word;"><td class="cl-307ae975"><p class="cl-307ac624"><span class="cl-3076cb8c">post</span></p></td><td class="cl-307ae97e"><p class="cl-307ac638"><span class="cl-3076cb8c">0.4213901</span></p></td></tr><tr style="overflow-wrap:break-word;"><td class="cl-307ae97f"><p class="cl-307ac624"><span class="cl-3076cb8c">executioner</span></p></td><td class="cl-307ae980"><p class="cl-307ac638"><span class="cl-3076cb8c">0.4197645</span></p></td></tr></tbody></table></div>
 </div>
 </div>
 </section>
@@ -1425,8 +1414,8 @@ Section Overview
 </details>
 <div class="cell-output cell-output-stdout">
 <pre><code>queen : woman :: man : ? 
-  Top results: young, education, healthy, everyone, person 
-  Similarities: 0.483, 0.467, 0.45, 0.448, 0.442 </code></pre>
+  Top results: young, tender, respectable, healthy, greatness 
+  Similarities: 0.526, 0.453, 0.434, 0.428, 0.421 </code></pre>
 </div>
 <details open="" class="code-fold">
 <summary>Code</summary>
@@ -1434,8 +1423,8 @@ Section Overview
 </details>
 <div class="cell-output cell-output-stdout">
 <pre><code>alice : girl :: boy : ? 
-  Top results: spoiled, dough, respectable, lad, lies 
-  Similarities: 0.489, 0.46, 0.434, 0.426, 0.421 </code></pre>
+  Top results: spoiled, sweet, sweetest, lad, eighteen 
+  Similarities: 0.46, 0.444, 0.431, 0.429, 0.409 </code></pre>
 </div>
 <details open="" class="code-fold">
 <summary>Code</summary>
@@ -1445,8 +1434,8 @@ Section Overview
 </details>
 <div class="cell-output cell-output-stdout">
 <pre><code>walk : walking :: running : ? 
-  Top results: flinging, pulled, jumping, whereupon, tub 
-  Similarities: 0.473, 0.461, 0.418, 0.408, 0.406 </code></pre>
+  Top results: jumped, springing, forwards, jumping, cleared 
+  Similarities: 0.411, 0.408, 0.401, 0.39, 0.385 </code></pre>
 </div>
 </div>
 <div class="callout callout-style-default callout-warning callout-titled">
@@ -2228,7 +2217,7 @@ Citation
 </div>
 </div>
 <div class="callout-body-container callout-body">
-<p>Martin Schweinberger. 2026. <em>Word Embeddings and Vector Semantics</em>. The Language Technology and Data Analysis Laboratory (LADAL), The University of Queensland, Australia. url: https://ladal.edu.au/tutorials/embeddings/embeddings.html (Version 3.1.1). doi: <a href="https://doi.org/10.5281/zenodo.19332874" target="_blank">10.5281/zenodo.19332874</a>.</p>
+<p>Martin Schweinberger. 2026. <em>Word Embeddings and Vector Semantics</em>. The Language Technology and Data Analysis Laboratory (LADAL), The University of Queensland, Australia. url: https://ladal.edu.au/tutorials/embeddings/embeddings.html (Version 3.1.1). doi: <a href="https://doi.org/10.5281/zenodo.19424864" target="_blank">10.5281/zenodo.19424864</a>.</p>
 <pre><code>@manual{martinschweinberger2026word,
   author       = {Martin Schweinberger},
   title        = {Word Embeddings and Vector Semantics},
@@ -2236,7 +2225,7 @@ Citation
   note         = {https://ladal.edu.au/tutorials/embeddings/embeddings.html},
   organization = {The Language Technology and Data Analysis Laboratory (LADAL), The University of Queensland, Australia},
   edition      = {3.1.1},
-  doi          = {10.5281/zenodo.19332874}
+  doi          = {10.5281/zenodo.19424864}
 }</code></pre>
 </div>
 </div>
@@ -2264,36 +2253,33 @@ time zone: Australia/Brisbane
 tzcode source: internal
 
 attached base packages:
-[1] stats     graphics  grDevices datasets  utils     methods   base     
+[1] stats     graphics  grDevices utils     datasets  methods   base     
 
 other attached packages:
- [1] checkdown_0.0.13 flextable_0.9.11 here_1.0.2       Rtsne_0.17      
- [5] ggrepel_0.9.8    ggplot2_4.0.2    purrr_1.2.1      tidyr_1.3.2     
- [9] stringr_1.6.0    dplyr_1.2.0      text2vec_0.6.4   word2vec_0.4.1  
+ [1] flextable_0.9.11 here_1.0.2       Rtsne_0.17       ggrepel_0.9.8   
+ [5] ggplot2_4.0.3    purrr_1.2.2      tidyr_1.3.2      stringr_1.6.0   
+ [9] dplyr_1.2.1      word2vec_0.4.1   checkdown_0.0.13
 
 loaded via a namespace (and not attached):
- [1] gtable_0.3.6            xfun_0.56               htmlwidgets_1.6.4      
- [4] lattice_0.22-6          vctrs_0.7.2             tools_4.4.2            
- [7] generics_0.1.4          tibble_3.3.1            pkgconfig_2.0.3        
-[10] Matrix_1.7-2            data.table_1.17.0       RColorBrewer_1.1-3     
-[13] S7_0.2.1                uuid_1.2-1              lifecycle_1.0.5        
-[16] compiler_4.4.2          farver_2.1.2            textshaping_1.0.0      
-[19] RhpcBLASctl_0.23-42     codetools_0.2-20        litedown_0.9           
-[22] fontquiver_0.2.1        fontLiberation_0.1.0    htmltools_0.5.9        
-[25] yaml_2.3.10             pillar_1.11.1           crayon_1.5.3           
-[28] openssl_2.3.2           rsparse_0.5.3           fontBitstreamVera_0.1.1
-[31] commonmark_2.0.0        tidyselect_1.2.1        zip_2.3.2              
-[34] digest_0.6.39           stringi_1.8.7           labeling_0.4.3         
-[37] rprojroot_2.1.1         fastmap_1.2.0           grid_4.4.2             
-[40] cli_3.6.5               magrittr_2.0.4          patchwork_1.3.0        
-[43] withr_3.0.2             gdtools_0.5.0           scales_1.4.0           
-[46] float_0.3-2             rmarkdown_2.30          officer_0.7.3          
-[49] mlapi_0.1.1             askpass_1.2.1           ragg_1.5.1             
-[52] evaluate_1.0.5          knitr_1.51              markdown_2.0           
-[55] rlang_1.1.7             Rcpp_1.1.1              glue_1.8.0             
-[58] BiocManager_1.30.27     xml2_1.3.6              renv_1.1.7             
-[61] rstudioapi_0.17.1       jsonlite_2.0.0          lgr_0.4.4              
-[64] R6_2.6.1                systemfonts_1.3.1      </code></pre>
+ [1] generics_0.1.4          fontLiberation_0.1.0    xml2_1.5.2             
+ [4] stringi_1.8.7           digest_0.6.39           magrittr_2.0.5         
+ [7] evaluate_1.0.5          grid_4.4.2              RColorBrewer_1.1-3     
+[10] fastmap_1.2.0           rprojroot_2.1.1         jsonlite_2.0.0         
+[13] zip_2.3.3               scales_1.4.0            fontBitstreamVera_0.1.1
+[16] textshaping_1.0.5       codetools_0.2-20        cli_3.6.6              
+[19] rlang_1.2.0             fontquiver_0.2.1        litedown_0.9           
+[22] commonmark_2.0.0        withr_3.0.2             yaml_2.3.12            
+[25] otel_0.2.0              gdtools_0.5.0           officer_0.7.4          
+[28] tools_4.4.2             uuid_1.2-2              vctrs_0.7.3            
+[31] R6_2.6.1                lifecycle_1.0.5         htmlwidgets_1.6.4      
+[34] ragg_1.5.2              pkgconfig_2.0.3         pillar_1.11.1          
+[37] gtable_0.3.6            glue_1.8.1              data.table_1.18.2.1    
+[40] Rcpp_1.1.1-1.1          systemfonts_1.3.2       xfun_0.57              
+[43] tibble_3.3.1            tidyselect_1.2.1        rstudioapi_0.18.0      
+[46] knitr_1.51              farver_2.1.2            patchwork_1.3.2        
+[49] htmltools_0.5.9         labeling_0.4.3          rmarkdown_2.31         
+[52] compiler_4.4.2          S7_0.2.2                askpass_1.2.1          
+[55] markdown_2.0            openssl_2.4.0          </code></pre>
 </div>
 </div>
 <div class="callout callout-style-default callout-note callout-titled">
